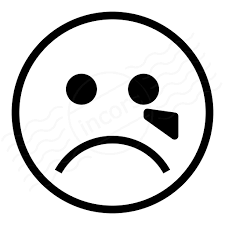
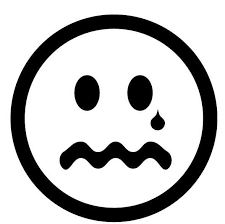
Updated images for medical and emotions on homepage

diff --git a/partials/home.html b/partials/home.html
@@ -3,7 +3,7 @@
     <div class="container">
         <div class="row">
             <div class="col-md-12">
-                 <div class="cat-heading" style="padding: 20px;">Categories </div>
+                <div class="cat-heading" style="padding: 20px;">Categories </div>
             </div>
         </div>
     </div>
@@ -43,7 +43,7 @@
             <div class="col-md-4 col-sm-6">
                 <a href="#medical">
                     <div class="team-member">
-                        <div class="team-member-image"><img src="img/medical.jpeg" height="190" width="266"  alt="Name Surname"></div>
+                        <div class="team-member-image"><img src="img/medical.png" height="190" width="266"  alt="Name Surname"></div>
                         <div class="team-member-info">
                             <ul>
                                 <li class="team-member-name">
@@ -83,19 +83,19 @@
                 </a>
             </div>
             <div class="col-md-4 col-sm-6">
-            <a href="#activities">
-                <div class="team-member">
-                    <div class="team-member-image"><img src="img/activities.png" height="190" alt="Name Surname"></div>
-                    <div class="team-member-info">
-                        <ul>
-                            <li class="team-member-name">
-                                Activities
-                            </li>
-                        </ul>
+                <a href="#activities">
+                    <div class="team-member">
+                        <div class="team-member-image"><img src="img/activities.png" height="190" alt="Name Surname"></div>
+                        <div class="team-member-info">
+                            <ul>
+                                <li class="team-member-name">
+                                    Activities
+                                </li>
+                            </ul>
+                        </div>
                     </div>
-                </div>
-            </a>
-        </div>
+                </a>
+            </div>
         </div>
     </div>
 </div>
